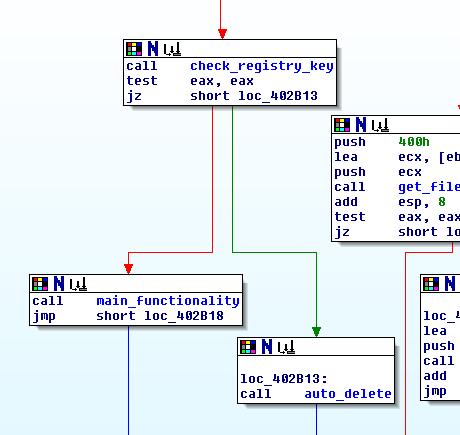
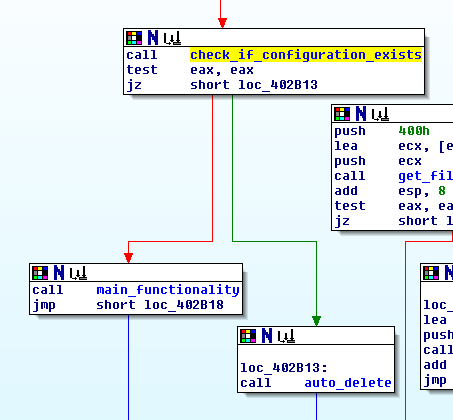
Lab09 exercises (to be completed...)

Changed region(s): [[0.0618, 0.0, 1.0, 1.0]]

diff --git a/Labs/Lab_09.md b/Labs/Lab_09.md
@@ -53,7 +53,7 @@ Also, the malware copies itself into the "C:\\Windows\\System32\\" path.
 
 ![_IDA Pro_ copy file](../Pictures/Lab_09/lab_09-01_2_ida_pro_4.png)
 
-Finally, the malware creates the registry key "SOFTWARE\\\\Microsoft \\\\XPS" with the value name "Configuration" and the values "ups", "http://www.practicalmalwareanalysis.com", "80" and "60". These values will be used later by the malware.
+Finally, the malware creates the registry key "SOFTWARE\\\\Microsoft \\\\XPS" with the value name "Configuration" and the values "ups", "http://www.practicalmalwareanalysis.com", "80" and "60". These values will be used later by the malware as configuration.
 
 ![_IDA Pro_ add registry key 1](../Pictures/Lab_09/lab_09-01_2_ida_pro_5.png)
 
@@ -61,9 +61,35 @@ Finally, the malware creates the registry key "SOFTWARE\\\\Microsoft \\\\XPS" wi
 
 **-re (aka: remove)**
 
-**-c (aka: TODO)**
+When the malware receives the command "-re" starts the removal process of the malware.
 
-**-cc (aka: TODO)**
+![_IDA Pro_ removal process](../Pictures/Lab_09/lab_09-01_2_ida_pro_7.png)
+
+Then, the malware will check if the user has provided another argument in the same way of the installation process. After that, the malware will remove the service, the copied file and the registry key.
+
+![_IDA Pro_ remove service](../Pictures/Lab_09/lab_09-01_2_ida_pro_8.png)
+
+![_IDA Pro_ remove file](../Pictures/Lab_09/lab_09-01_2_ida_pro_9.png)
+
+![_IDA Pro_ remove registry key](../Pictures/Lab_09/lab_09-01_2_ida_pro_10.png)
+
+**-c (aka: configuration)**
+
+The sample will change the configuration set in the registry key created during the installation process if it receives de argument "-c".
+
+![_IDA Pro_ modify configuration 1](../Pictures/Lab_09/lab_09-01_2_ida_pro_10.png)
+
+Now, the malware will check if the user has provided 7 commands, which are the filename, the command "-c", the password "abcd" and the configuration parameters, the C&C URL, the numeric values and the last string.
+
+![_IDA Pro_ modify configuration 2](../Pictures/Lab_09/lab_09-01_2_ida_pro_11.png)
+
+**-cc (aka: configuration check)**
+
+The last parameter the malware understands is "-cc", which will order the malware to check their configuration properties and print them.
+
+![_IDA Pro_ check configuration 1](../Pictures/Lab_09/lab_09-01_2_ida_pro_12.png)
+
+![_IDA Pro_ check configuration 1](../Pictures/Lab_09/lab_09-01_2_ida_pro_13.png)
 
 **No arguments**
 
@@ -75,25 +101,56 @@ The malware will wait for the following commands:
 
 - SLEEP: the sample will sleep the time in seconds the C&C has established with the second argument of the command (example: SLEEP 10, will sleep 10 seconds).
 
-![_IDA Pro_ SLEEP command 1](../Pictures/Lab_09/lab_09-01_2_ida_pro_core_1.png)
+![_IDA Pro_ SLEEP command 1](../Pictures/Lab_09/lab_09-01_2_ida_pro_core_2.png)
 
-![_IDA Pro_ SLEEP command 2](../Pictures/Lab_09/lab_09-01_2_ida_pro_core_2.png)
+![_IDA Pro_ SLEEP command 2](../Pictures/Lab_09/lab_09-01_2_ida_pro_core_3.png)
 
-- UPDATE
+- UPLOAD: the binary will upload the file specified in the argument to the C&C.
 
-- DOWNLOAD
+![_IDA Pro_ UPLOAD command 1](../Pictures/Lab_09/lab_09-01_2_ida_pro_core_4.png)
 
-- CMD
+![_IDA Pro_ UPLOAD command 2](../Pictures/Lab_09/lab_09-01_2_ida_pro_core_5.png)
+
+- DOWNLOAD: the malware will download the file specified in the argument to the C&C.
+
+![_IDA Pro_ DOWNLOAD command 1](../Pictures/Lab_09/lab_09-01_2_ida_pro_core_6.png)
+
+![_IDA Pro_ DOWNLOAD command 2](../Pictures/Lab_09/lab_09-01_2_ida_pro_core_7.png)
+
+- CMD: the sample will create a pipe, send a command specified in the arguments and send its result to the C&C.
+
+![_IDA Pro_ CMD command 1](../Pictures/Lab_09/lab_09-01_2_ida_pro_core_8.png)
+
+![_IDA Pro_ CMD command 2](../Pictures/Lab_09/lab_09-01_2_ida_pro_core_9.png)
+
+![_IDA Pro_ CMD command 2](../Pictures/Lab_09/lab_09-01_2_ida_pro_core_10.png)
 
 - NOTHING: the malware will do nothing and wait for the next command.
+
+![_IDA Pro_ NOTHING command](../Pictures/Lab_09/lab_09-01_2_ida_pro_core_11.png)
+
+**Incorrect argument/s**
+
+If the malware does not understand the provided arguments, it will auto-remove itself.
 
 **3. How can you use OllyDbg to permanently patch this malware, so that it doesn’t require the special command-line password?**
 
 **4. What are the host-based indicators of this malware?**
 
+There are several host-based indicators like the service or the configuration registry key created by the malware.
+
+```
+Service: 
+Registry key and value: "SOFTWARE\\Microsoft \\XPS", "Configuration"
+```
+
 **5. What are the different actions this malware can be instructed to take via the network?**
 
+Answered in the second exercise in the "No arguments" section.
+
 **6. Are there any useful network-based signatures for this malware?**
+
+We can see one interesting network-based IOC, the url _http://www.practicalmalwareanalysis.com/_.
 
 # Lab 9-2
 

diff --git a/Labs/Lab_06.md b/Labs/Lab_06.md
@@ -94,10 +94,10 @@ The new function will use the command provided by the previous function to execu
 
 The different tasks that the malware can carry are according the value of the command are:
 
-- 97 (a): create _C:\Temp_ folder by means of _CreateDirectoryA_ API call.
-- 98 (b): copy the own file in _C:\Temp\cc.exe_ path by means of _CopyFileA_ API call.
-- 99 (c): delete the file _C:\Temp\cc.exe_ by means of _DeleteFileA_ API call.
-- 100 (d): set the registry key value _Software\Microsoft\Windows\CurrentVersion\Run_ with the value _C:\Temp\cc.exe_ and the name _Malware_ so as to gain persistence.
+- 97 (a): create "C:\Temp" folder by means of _CreateDirectoryA_ API call.
+- 98 (b): copy the own file in "C:\Temp\cc.exe" path by means of _CopyFileA_ API call.
+- 99 (c): delete the file "C:\Temp\cc.exe" by means of _DeleteFileA_ API call.
+- 100 (d): set the registry key "Software\Microsoft\Windows\CurrentVersion\Run" with the value "C:\Temp\cc.exe" and the name "Malware" so as to gain persistence.
 - 101 (e): sleep 100 seconds.
 
 ![_IDA Pro_ example command execution](../Pictures/Lab_06/lab_06-03_4_ida_pro_2.png)
